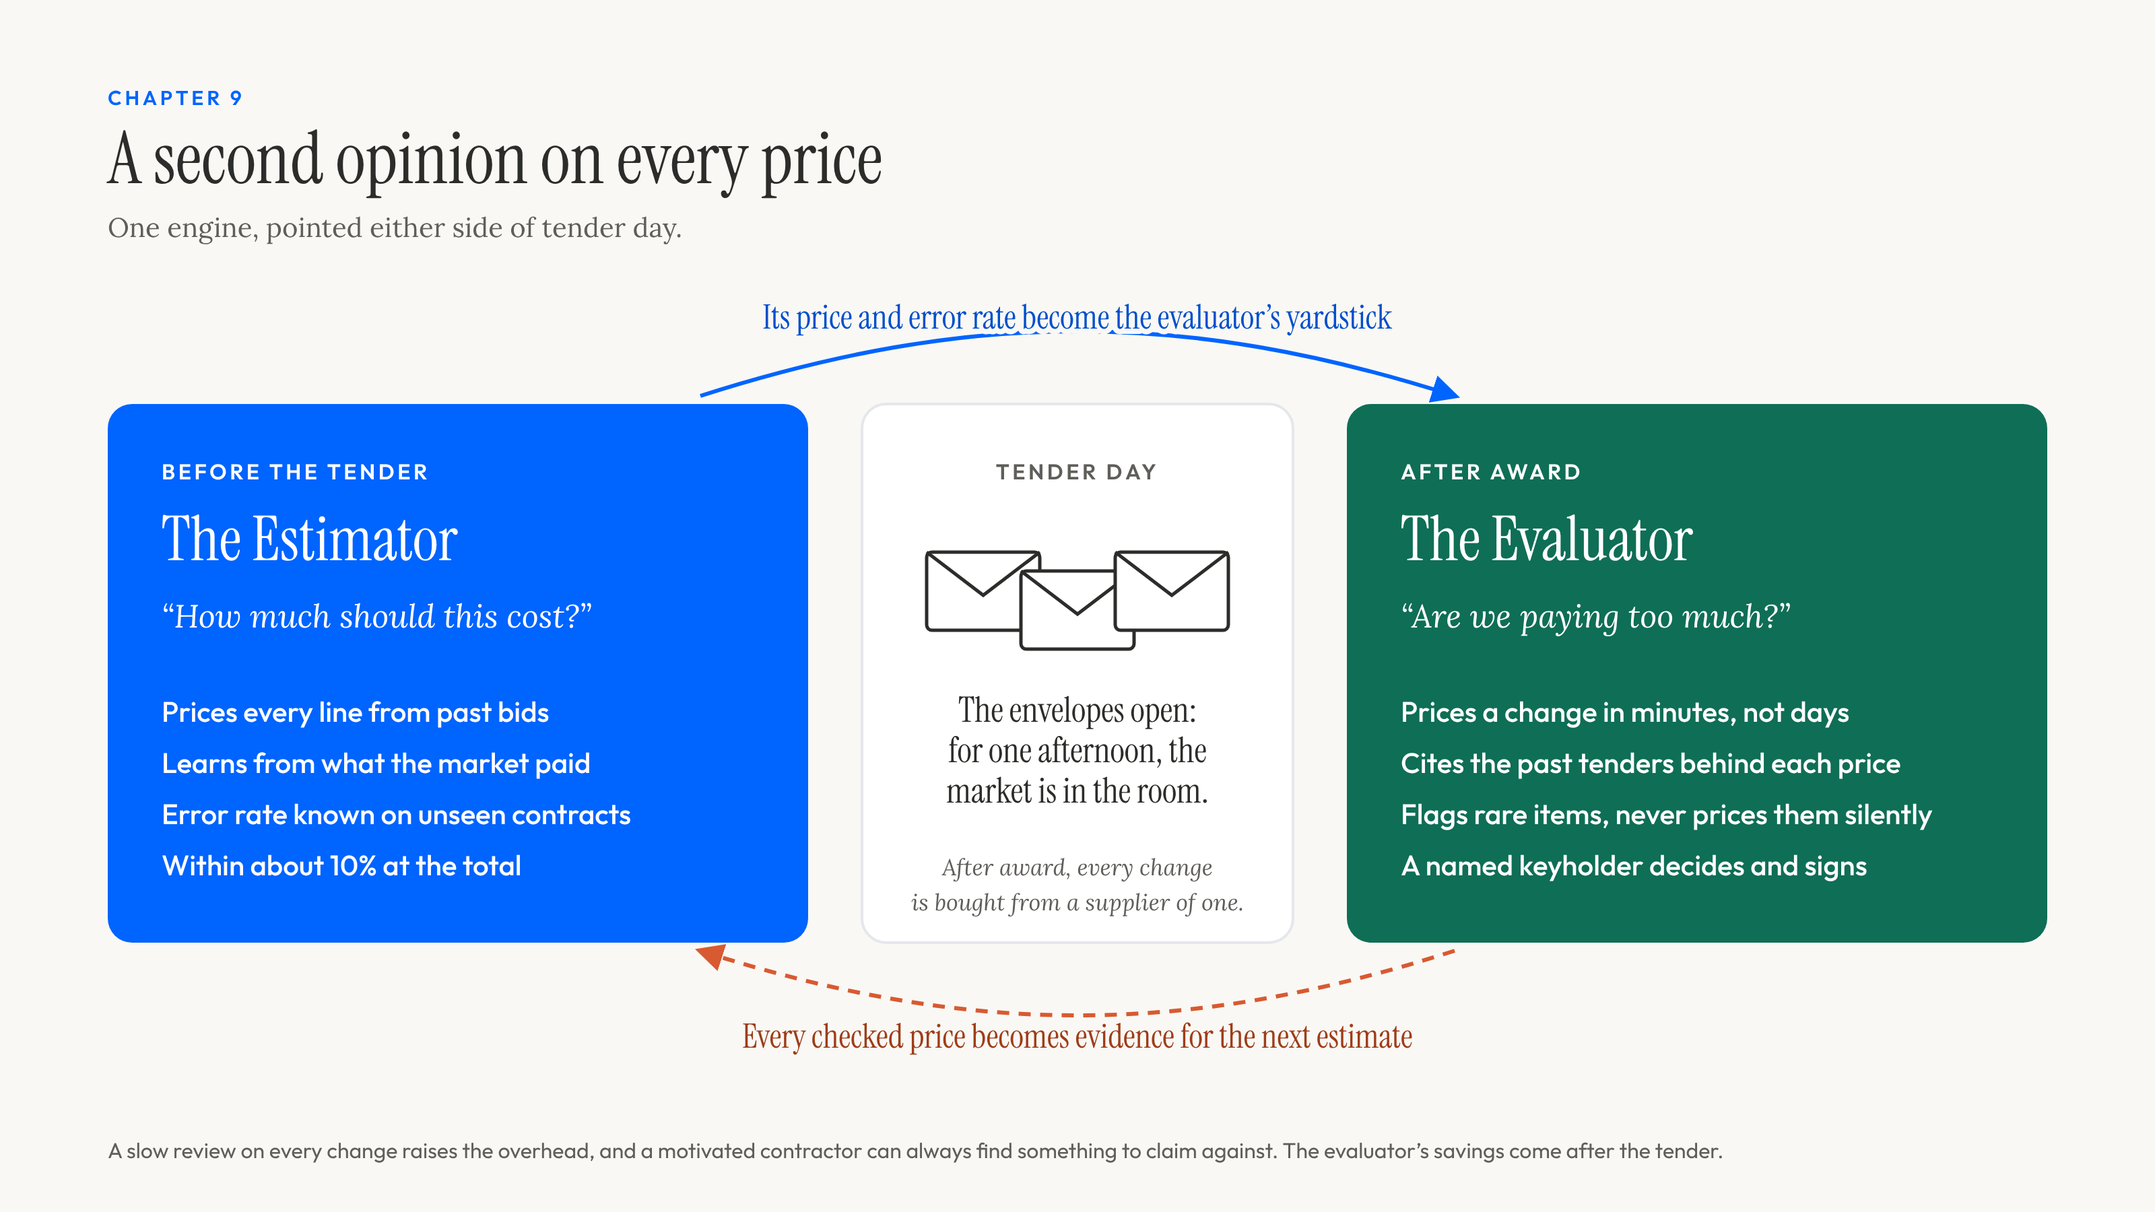
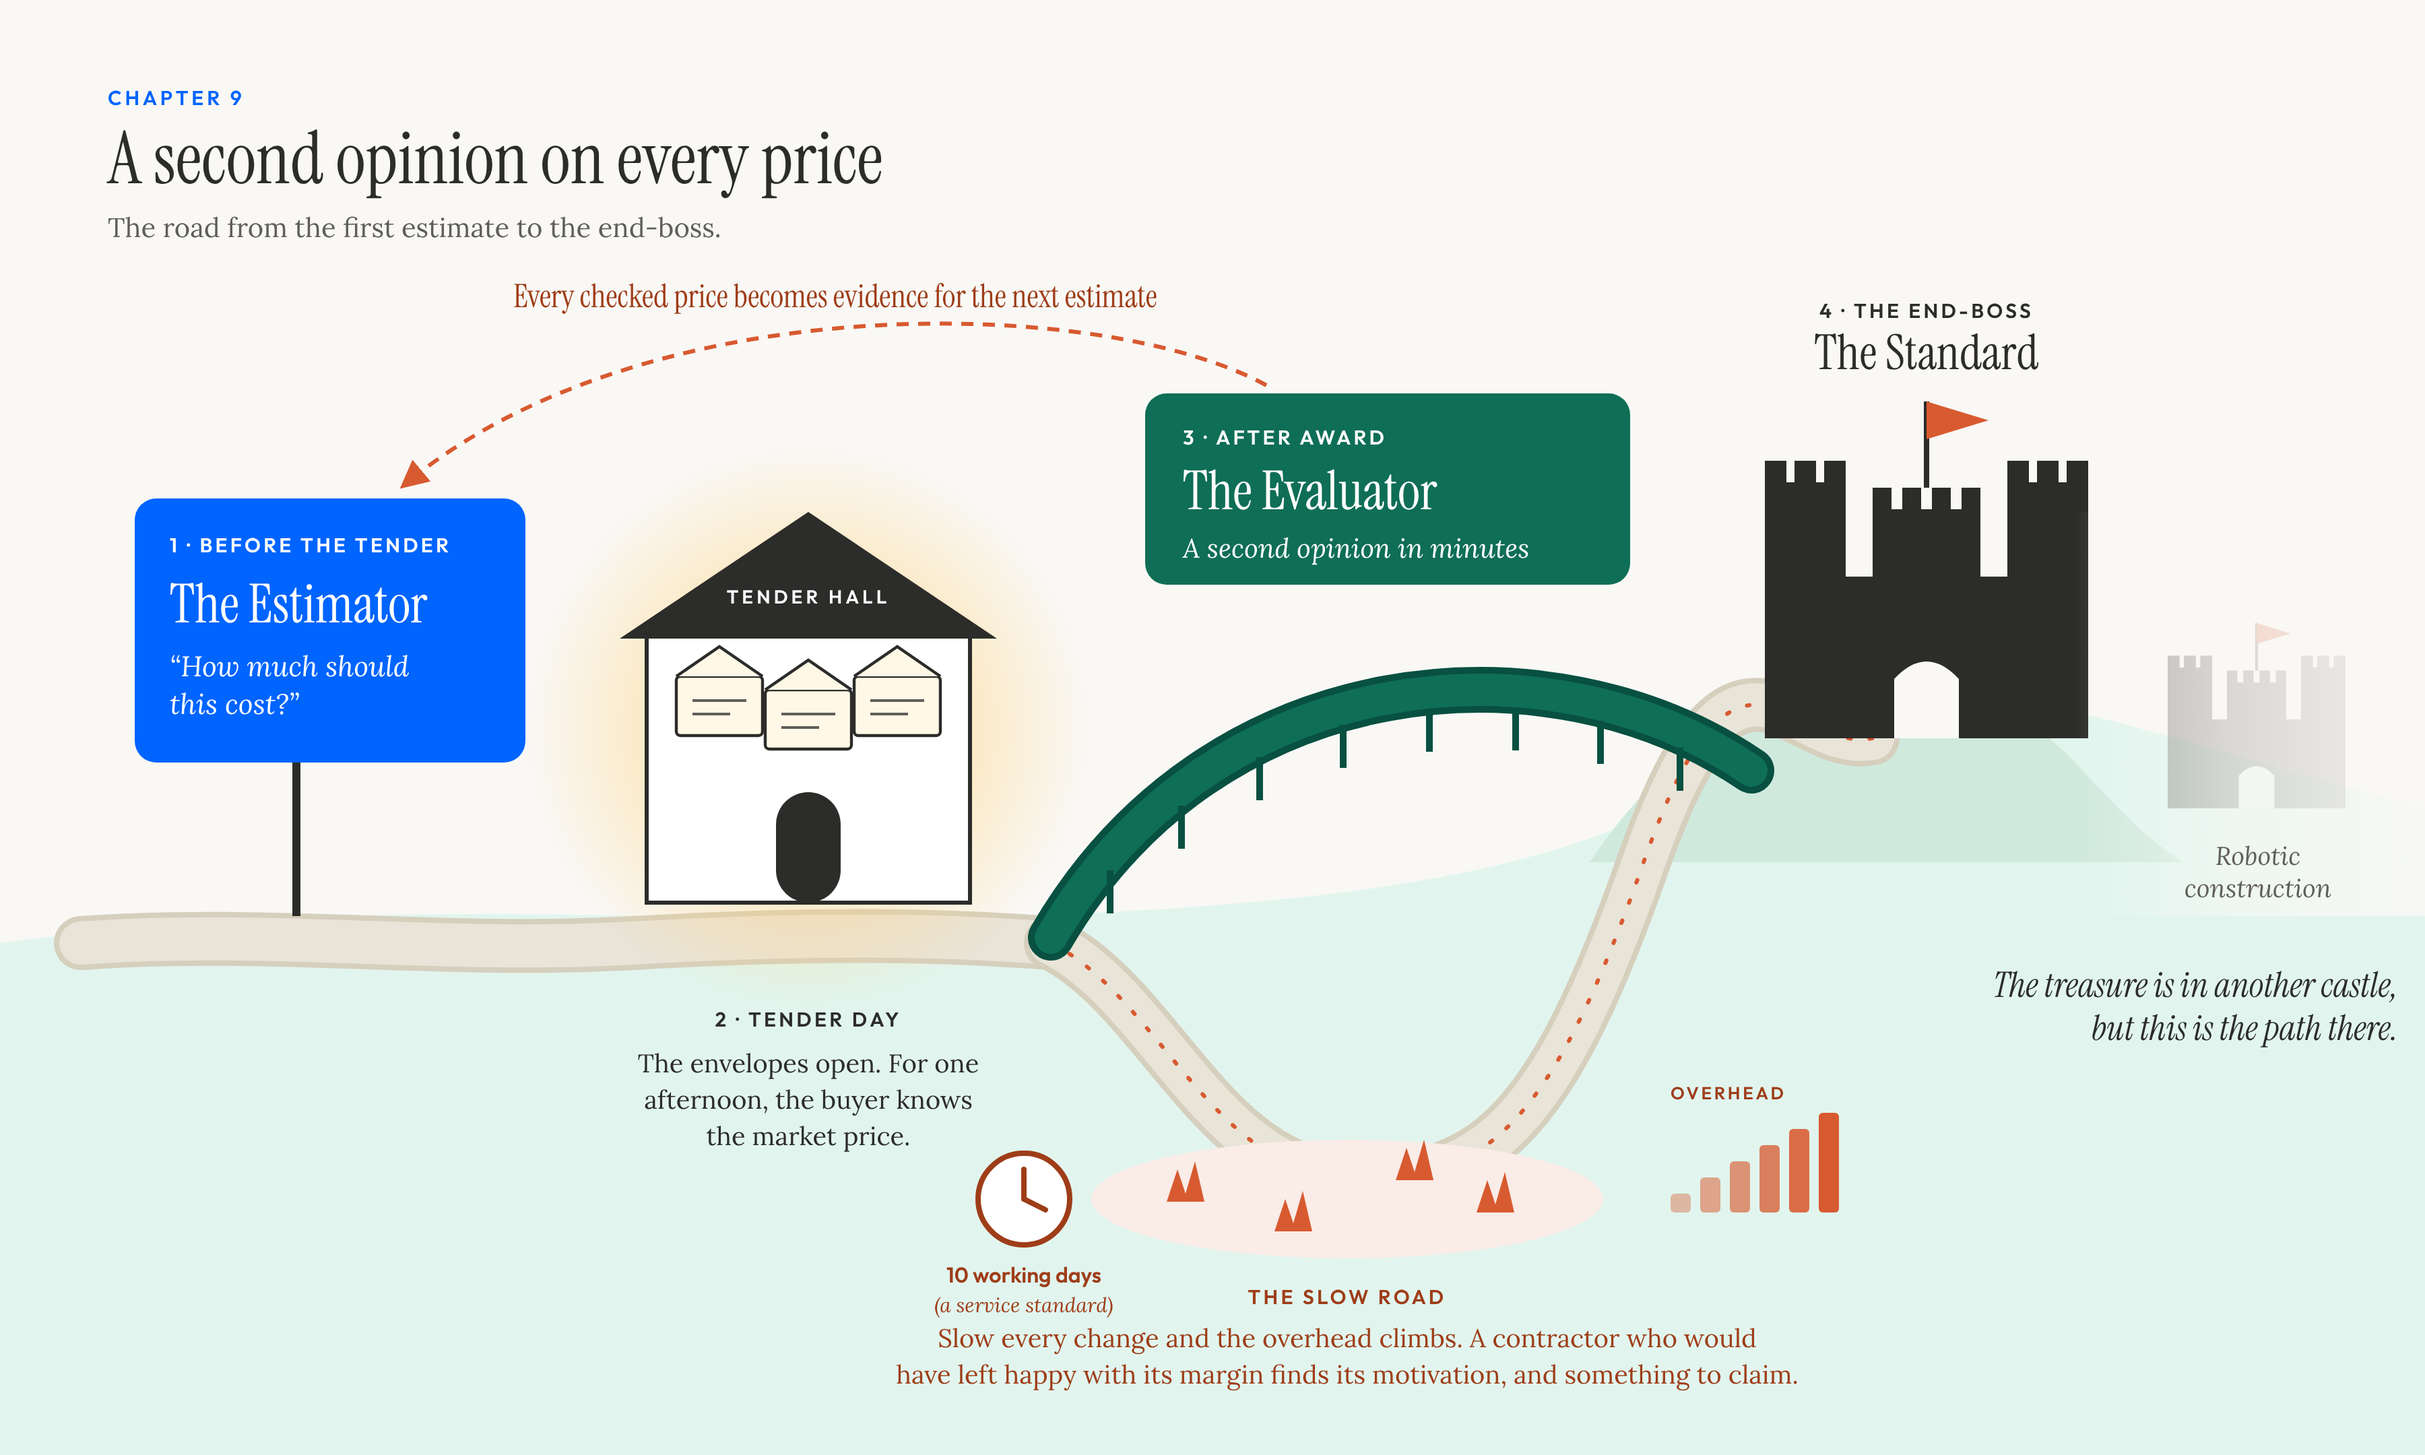
Chapter 9 figure: redraw as a quest map to the end-boss
Claude-Session: https://claude.ai/code/session_01JEzVpd1cnzXY9sfCGUSgGY

diff --git a/images/second_opinion.py b/images/second_opinion.py
@@ -1,85 +1,169 @@
-"""Chapter 9 figure: the estimator and the evaluator either side of tender day.
+"""Chapter 9 figure: the quest map from the estimator to the end-boss.
+
+The estimator before the tender, tender day (the one afternoon the buyer sees the
+market price), then a fork after award: the slow road of long reviews, where a
+contractor finds its motivation to claim, or the evaluator's bridge. The road
+ends at the end-boss, the standard, with robotic construction in the fog beyond.
 
     python images/second_opinion.py images/second-opinion
-    node images/project_hex_map_render.js "$PWD/images/second-opinion.html" images/second-opinion.png 1600 900
+    node images/project_hex_map_render.js "$PWD/images/second-opinion.html" images/second-opinion.png 1800 1080
 """
 import sys
 
-C = dict(action="#0064ff", action_p="#004fcc", sec="#0f6e56", sec_d="#085041",
-         acc="#d85a30", acc_d="#9e3d18", canvas="#f9f8f5", hair="#e5e7eb",
-         ink="#2c2c2a", ink2="#5f5e5a")
-W, H = 1600, 900
+C = dict(action="#0064ff", action_p="#004fcc", action_t="#e6efff",
+         sec="#0f6e56", sec_d="#085041", sec_t="#e1f5ee",
+         acc="#d85a30", acc_d="#9e3d18", acc_t="#faece7",
+         canvas="#f9f8f5", surface="#ffffff", muted="#f3f4f6", hair="#e5e7eb",
+         ink="#2c2c2a", ink2="#5f5e5a", road="#e9e4d8", road_e="#d6cfbd")
+W, H = 1800, 1080
 
 
-def t(x, y, s, cls, fill=None, anchor="start"):
+def t(x, y, s, cls, fill=None, anchor="start", extra=""):
     f = f' fill="{fill}"' if fill else ""
-    return f'<text x="{x}" y="{y}" class="{cls}"{f} text-anchor="{anchor}">{s}</text>'
+    return f'<text x="{x}" y="{y}" class="{cls}"{f} text-anchor="{anchor}"{extra}>{s}</text>'
 
 
-o = [f'<rect width="{W}" height="{H}" fill="{C["canvas"]}"/>']
+def lines(x, y, rows, cls, fill=None, anchor="start", step=26):
+    return [t(x, y + i * step, r, cls, fill, anchor) for i, r in enumerate(rows)]
+
+
+o = [f'<rect width="{W}" height="{H}" fill="{C["canvas"]}"/>',
+     '<defs><marker id="ah" viewBox="0 0 10 10" refX="8" refY="5" markerWidth="7" markerHeight="7" orient="auto">'
+     '<path d="M0 0L10 5L0 10z" fill="context-stroke"/></marker>'
+     '<radialGradient id="glow"><stop offset="0" stop-color="#ffd27a" stop-opacity=".9"/>'
+     '<stop offset="1" stop-color="#ffd27a" stop-opacity="0"/></radialGradient>'
+     '<linearGradient id="fog" x1="0" x2="1"><stop offset="0" stop-color="#f9f8f5" stop-opacity="0"/>'
+     '<stop offset=".45" stop-color="#f9f8f5" stop-opacity=".55"/><stop offset="1" stop-color="#f9f8f5" stop-opacity=".9"/></linearGradient></defs>']
+
 o.append(t(80, 78, "CHAPTER 9", "eyebrow"))
 o.append(t(80, 136, "A second opinion on every price", "title"))
-o.append(t(80, 176, "One engine, pointed either side of tender day.", "dek"))
+o.append(t(80, 176, "The road from the first estimate to the end-boss.", "dek"))
 
-# the three columns
-PY, PH = 300, 400
-LX, RX, PW = 80, 1000, 520
-MX, MW = 640, 320
+# hills and ground
+o.append(f'<path d="M0 700 C 300 660, 520 690, 760 680 S 1180 650, 1300 560 S 1500 520, 1800 600 L1800 {H} L0 {H} Z" fill="{C["sec_t"]}"/>')
+o.append(f'<path d="M1180 640 C 1260 520, 1380 470, 1480 520 C 1540 550, 1560 600, 1620 640 Z" fill="#cfe9dd"/>')
 
-def panel(x, col, eyebrow, name, q, lines):
-    o.append(f'<rect x="{x}" y="{PY}" width="{PW}" height="{PH}" rx="18" fill="{col}"/>')
-    o.append(t(x + 40, PY + 56, eyebrow, "tag", "#ffffff"))
-    o.append(t(x + 40, PY + 116, name, "name", "#ffffff"))
-    o.append(t(x + 40, PY + 166, q, "q", "#ffffff"))
-    yy = PY + 236
-    for ln in lines:
-        o.append(t(x + 40, yy, ln, "ex", "#ffffff")); yy += 38
+# the main road: estimator -> hall -> fork
+GY = 700
+o.append(f'<path d="M60 {GY} C 200 {GY-10}, 330 {GY+8}, 470 {GY} S 700 {GY-6}, 780 {GY}" fill="none" stroke="{C["road_e"]}" stroke-width="40" stroke-linecap="round"/>')
+o.append(f'<path d="M60 {GY} C 200 {GY-10}, 330 {GY+8}, 470 {GY} S 700 {GY-6}, 780 {GY}" fill="none" stroke="{C["road"]}" stroke-width="32" stroke-linecap="round"/>')
+# the slow road dips into the swamp
+slow = f"M780 {GY} C 860 {GY+40}, 900 {GY+170}, 1000 {GY+175} S 1150 {GY+140}, 1220 {GY-60} S 1330 560, 1390 548"
+o.append(f'<path d="{slow}" fill="none" stroke="{C["road_e"]}" stroke-width="40" stroke-linecap="round"/>')
+o.append(f'<path d="{slow}" fill="none" stroke="{C["road"]}" stroke-width="32" stroke-linecap="round"/>')
+o.append(f'<path d="{slow}" fill="none" stroke="{C["acc"]}" stroke-width="3" stroke-dasharray="2 14" stroke-linecap="round"/>')
+# swamp
+o.append(f'<ellipse cx="1000" cy="{GY+190}" rx="190" ry="44" fill="{C["acc_t"]}"/>')
+for x, y in ((880, GY + 192), (1110, GY + 200), (960, GY + 214), (1050, GY + 176)):   # thorns: claims
+    o.append(f'<path d="M{x-14} {y} L{x-6} {y-24} L{x} {y-6} L{x+7} {y-30} L{x+14} {y}" fill="{C["acc"]}"/>')
 
-panel(LX, C["action"], "BEFORE THE TENDER", "The Estimator", "“How much should this cost?”",
-      ["Prices every line from past bids", "Learns from what the market paid",
-       "Error rate known on unseen contracts", "Within about 10% at the total"])
-panel(RX, C["sec"], "AFTER AWARD", "The Evaluator", "“Are we paying too much?”",
-      ["Prices a change in minutes, not days", "Cites the past tenders behind each price",
-       "Flags rare items, never prices them silently", "A named keyholder decides and signs"])
+# the evaluator's bridge over the swamp
+o.append(f'<path d="M780 {GY-4} C 900 {GY-210}, 1150 {GY-230}, 1300 572" fill="none" stroke="{C["sec_d"]}" stroke-width="34" stroke-linecap="round"/>')
+o.append(f'<path d="M780 {GY-4} C 900 {GY-210}, 1150 {GY-230}, 1300 572" fill="none" stroke="{C["sec"]}" stroke-width="24" stroke-linecap="round"/>')
+for i in range(1, 9):   # bridge posts
+    s = i / 9
+    bx = (1 - s) ** 3 * 780 + 3 * (1 - s) ** 2 * s * 900 + 3 * (1 - s) * s * s * 1150 + s ** 3 * 1300
+    by = (1 - s) ** 3 * (GY - 4) + 3 * (1 - s) ** 2 * s * (GY - 210) + 3 * (1 - s) * s * s * (GY - 230) + s ** 3 * 572
+    o.append(f'<line x1="{bx:.0f}" y1="{by+12:.0f}" x2="{bx:.0f}" y2="{by+44:.0f}" stroke="{C["sec_d"]}" stroke-width="5"/>')
 
-# tender day in the middle
-cx = MX + MW / 2
-o.append(f'<rect x="{MX}" y="{PY}" width="{MW}" height="{PH}" rx="18" fill="#ffffff" stroke="{C["hair"]}" stroke-width="2"/>')
-o.append(t(cx, PY + 56, "TENDER DAY", "tag", C["ink2"], "middle"))
-for i, dx in enumerate((-70, 0, 70)):
-    ex, ey = cx + dx - 42, PY + 110 + (i % 2) * 14
-    o.append(f'<rect x="{ex}" y="{ey}" width="84" height="58" rx="4" fill="#ffffff" stroke="{C["ink"]}" stroke-width="2.5"/>')
-    o.append(f'<path d="M{ex} {ey} L{ex+42} {ey+32} L{ex+84} {ey}" fill="none" stroke="{C["ink"]}" stroke-width="2.5"/>')
-o.append(t(cx, PY + 236, "The envelopes open:", "mid", C["ink"], "middle"))
-o.append(t(cx, PY + 266, "for one afternoon, the", "mid", C["ink"], "middle"))
-o.append(t(cx, PY + 296, "market is in the room.", "mid", C["ink"], "middle"))
-o.append(t(cx, PY + 350, "After award, every change", "mids", C["ink2"], "middle"))
-o.append(t(cx, PY + 376, "is bought from a supplier of one.", "mids", C["ink2"], "middle"))
+# 1. the estimator: a signpost
+sx = 200
+o.append(f'<line x1="{sx+20}" y1="{GY-20}" x2="{sx+20}" y2="{GY-140}" stroke="{C["ink"]}" stroke-width="6"/>')
+o.append(f'<rect x="{sx-100}" y="{GY-330}" width="290" height="196" rx="16" fill="{C["action"]}"/>')
+o += lines(sx - 74, GY - 290, ["1 · BEFORE THE TENDER"], "tag", "#ffffff")
+o.append(t(sx - 74, GY - 238, "The Estimator", "name", "#ffffff"))
+o += lines(sx - 74, GY - 198, ["“How much should", "this cost?”"], "q", "#ffffff", step=28)
 
-o.append('<defs><marker id="ah" viewBox="0 0 10 10" refX="8" refY="5" markerWidth="7" markerHeight="7" orient="auto"><path d="M0 0L10 5L0 10z" fill="context-stroke"/></marker></defs>')
-# top arc: yardstick, estimator -> evaluator
-o.append(f'<path d="M{LX+PW-80} {PY-6} C {LX+PW+120} {PY-70}, {RX-120} {PY-70}, {RX+80} {PY-6}" fill="none" stroke="{C["action"]}" stroke-width="3" marker-end="url(#ah)"/>')
-o.append(t(W / 2, PY - 56, "Its price and error rate become the evaluator’s yardstick", "route", C["action_p"], "middle"))
-# bottom arc: evidence, evaluator -> estimator
-yb = PY + PH
-o.append(f'<path d="M{RX+80} {yb+6} C {RX-120} {yb+70}, {LX+PW+120} {yb+70}, {LX+PW-80} {yb+6}" fill="none" stroke="{C["acc"]}" stroke-width="3" stroke-dasharray="9 7" marker-end="url(#ah)"/>')
-o.append(t(W / 2, yb + 78, "Every checked price becomes evidence for the next estimate", "route", C["acc_d"], "middle"))
+# 2. tender day: the hall, lit for one afternoon
+hx, hy = 480, GY - 30
+o.append(f'<circle cx="{hx+120}" cy="{hy-130}" r="210" fill="url(#glow)"/>')
+o.append(f'<rect x="{hx}" y="{hy-200}" width="240" height="200" fill="{C["surface"]}" stroke="{C["ink"]}" stroke-width="3"/>')
+o.append(f'<path d="M{hx-20} {hy-196} L{hx+120} {hy-290} L{hx+260} {hy-196} Z" fill="{C["ink"]}"/>')
+o.append(t(hx + 120, hy - 222, "TENDER HALL", "sign", "#ffffff", "middle"))
+for i, dx in enumerate((22, 88, 154)):   # three opened envelopes
+    ex, ey = hx + dx, hy - 168 + (i % 2) * 10
+    o.append(f'<rect x="{ex}" y="{ey}" width="64" height="44" rx="3" fill="#fff8e6" stroke="{C["ink"]}" stroke-width="2.2"/>')
+    o.append(f'<path d="M{ex} {ey} L{ex+32} {ey-22} L{ex+64} {ey}" fill="#fff8e6" stroke="{C["ink"]}" stroke-width="2.2"/>')
+    o.append(f'<line x1="{ex+12}" y1="{ey+18}" x2="{ex+52}" y2="{ey+18}" stroke="{C["ink2"]}" stroke-width="2"/>')
+    o.append(f'<line x1="{ex+12}" y1="{ey+28}" x2="{ex+40}" y2="{ey+28}" stroke="{C["ink2"]}" stroke-width="2"/>')
+o.append(f'<rect x="{hx+96}" y="{hy-82}" width="48" height="82" rx="24" fill="{C["ink"]}"/>')
+o += lines(hx + 120, GY + 62, ["2 · TENDER DAY"], "tag", C["ink"], "middle")
+o += lines(hx + 120, GY + 96, ["The envelopes open. For one", "afternoon, the buyer knows", "the market price."], "cap", C["ink"], "middle", step=27)
 
-o.append(t(80, H - 40, "A slow review on every change raises the overhead, and a motivated contractor can always find something to claim against. The evaluator’s savings come after the tender.", "foot"))
+# 3a. the evaluator's bridge label
+o.append(f'<rect x="850" y="292" width="360" height="142" rx="16" fill="{C["sec"]}"/>')
+o += lines(878, 330, ["3 · AFTER AWARD"], "tag", "#ffffff")
+o.append(t(878, 378, "The Evaluator", "name", "#ffffff"))
+o.append(t(878, 414, "A second opinion in minutes", "q2", "#ffffff"))
+
+# 3b. the slow road: clock, overhead meter, motivation
+cx, cy = 760, GY + 190     # clock
+o.append(f'<circle cx="{cx}" cy="{cy}" r="34" fill="{C["surface"]}" stroke="{C["acc_d"]}" stroke-width="4"/>')
+o.append(f'<line x1="{cx}" y1="{cy}" x2="{cx}" y2="{cy-22}" stroke="{C["acc_d"]}" stroke-width="4" stroke-linecap="round"/>')
+o.append(f'<line x1="{cx}" y1="{cy}" x2="{cx+16}" y2="{cy+8}" stroke="{C["acc_d"]}" stroke-width="4" stroke-linecap="round"/>')
+o.append(t(cx, cy + 62, "10 working days", "small", C["acc_d"], "middle"))
+o.append(t(cx, cy + 84, "(a service standard)", "smalli", C["acc_d"], "middle"))
+mx, my = 1240, GY + 120    # the overhead meter, climbing
+o.append(t(mx, my - 4, "OVERHEAD", "tag2", C["acc_d"]))
+for i in range(6):
+    h = 14 + i * 12
+    o.append(f'<rect x="{mx + i*22}" y="{my + 80 - h}" width="15" height="{h}" rx="3" fill="{C["acc"]}" opacity="{0.4 + i*0.12:.2f}"/>')
+o += lines(1000, GY + 268, ["THE SLOW ROAD"], "tag", C["acc_d"], "middle")
+o += lines(1000, GY + 300, ["Slow every change and the overhead climbs. A contractor who would",
+                            "have left happy with its margin finds its motivation, and something to claim."],
+           "cap", C["acc_d"], "middle", step=27)
+
+# 4. the end-boss: the standard's castle on the hill
+kx, ky = 1330, 548
+def castle(x, y, s, fill, op=1):
+    p = []
+    p.append(f'<g opacity="{op}">')
+    p.append(f'<rect x="{x}" y="{y - 120*s}" width="{200*s}" height="{120*s}" fill="{fill}"/>')
+    for tx in (x - 20*s, x + 160*s):
+        p.append(f'<rect x="{tx}" y="{y - 190*s}" width="{60*s}" height="{190*s}" fill="{fill}"/>')
+        for k in range(3):
+            p.append(f'<rect x="{tx + k*22*s}" y="{y - 206*s}" width="{16*s}" height="{18*s}" fill="{fill}"/>')
+    p.append(f'<rect x="{x + 60*s}" y="{y - 170*s}" width="{80*s}" height="{60*s}" fill="{fill}"/>')
+    for k in range(4):
+        p.append(f'<rect x="{x + 60*s + k*22*s}" y="{y - 186*s}" width="{14*s}" height="{18*s}" fill="{fill}"/>')
+    p.append(f'<path d="M{x + 76*s} {y} L{x + 76*s} {y - 44*s} Q{x + 100*s} {y - 70*s} {x + 124*s} {y - 44*s} L{x + 124*s} {y} Z" fill="{C["canvas"]}"/>')
+    p.append(f'<line x1="{x + 100*s}" y1="{y - 186*s}" x2="{x + 100*s}" y2="{y - 250*s}" stroke="{fill}" stroke-width="{4*s}"/>')
+    p.append(f'<path d="M{x + 100*s} {y - 250*s} L{x + 146*s} {y - 236*s} L{x + 100*s} {y - 222*s} Z" fill="{C["acc"]}"/>')
+    p.append('</g>')
+    return p
+o += castle(kx, ky, 1.0, C["ink"])
+o += lines(kx + 100, 236, ["4 · THE END-BOSS"], "tag", C["ink"], "middle")
+o.append(t(kx + 100, 274, "The Standard", "name2", C["ink"], "middle"))
+
+# beyond: robotic construction in the fog
+o += castle(1620, 600, 0.55, C["ink2"], 0.45)
+o.append(f'<rect x="1540" y="380" width="260" height="300" fill="url(#fog)"/>')
+o += lines(1676, 642, ["Robotic", "construction"], "smalli2", C["ink2"], "middle", step=24)
+
+# the flywheel: checked prices feed the next estimate
+o.append(f'<path d="M940 286 C 820 220, 480 210, 300 360" fill="none" stroke="{C["acc"]}" stroke-width="3" stroke-dasharray="9 7" marker-end="url(#ah)"/>')
+o.append(t(620, 228, "Every checked price becomes evidence for the next estimate", "route", C["acc_d"], "middle"))
+
+o += lines(1780, 740, ["The treasure is in another castle,", "but this is the path there."], "foot", None, "end", step=32)
 
 svg = f'''<svg xmlns="http://www.w3.org/2000/svg" width="{W}" height="{H}" viewBox="0 0 {W} {H}">
 <style>
   .eyebrow{{font-family:Outfit,sans-serif;font-weight:600;font-size:15px;letter-spacing:.16em;fill:#0064ff}}
   .title{{font-family:'Instrument Serif',Georgia,serif;font-size:54px;fill:#2c2c2a}}
   .dek{{font-family:Lora,Georgia,serif;font-size:20px;fill:#5f5e5a}}
-  .tag{{font-family:Outfit,sans-serif;font-weight:600;font-size:16px;letter-spacing:.14em}}
-  .name{{font-family:'Instrument Serif',Georgia,serif;font-size:46px}}
-  .q{{font-family:Lora,Georgia,serif;font-style:italic;font-weight:500;font-size:24px}}
-  .ex{{font-family:Outfit,sans-serif;font-weight:500;font-size:21px}}
-  .mid{{font-family:'Instrument Serif',Georgia,serif;font-size:26px}}
-  .mids{{font-family:Lora,Georgia,serif;font-style:italic;font-size:17px}}
-  .route{{font-family:'Instrument Serif',Georgia,serif;font-size:25px;paint-order:stroke;stroke:#f9f8f5;stroke-width:8px;stroke-linejoin:round}}
-  .foot{{font-family:Outfit,sans-serif;font-size:16px;fill:#5f5e5a}}
+  .tag{{font-family:Outfit,sans-serif;font-weight:600;font-size:15px;letter-spacing:.14em}}
+  .tag2{{font-family:Outfit,sans-serif;font-weight:600;font-size:13px;letter-spacing:.14em}}
+  .sign{{font-family:Outfit,sans-serif;font-weight:600;font-size:14px;letter-spacing:.18em}}
+  .name{{font-family:'Instrument Serif',Georgia,serif;font-size:40px}}
+  .name2{{font-family:'Instrument Serif',Georgia,serif;font-size:36px}}
+  .q{{font-family:Lora,Georgia,serif;font-style:italic;font-weight:500;font-size:21px}}
+  .q2{{font-family:Lora,Georgia,serif;font-style:italic;font-weight:500;font-size:20px}}
+  .cap{{font-family:Lora,Georgia,serif;font-size:19px}}
+  .small{{font-family:Outfit,sans-serif;font-weight:600;font-size:16px}}
+  .smalli{{font-family:Lora,Georgia,serif;font-style:italic;font-size:15px}}
+  .smalli2{{font-family:Lora,Georgia,serif;font-style:italic;font-size:19px}}
+  .route{{font-family:'Instrument Serif',Georgia,serif;font-size:24px;paint-order:stroke;stroke:#f9f8f5;stroke-width:8px;stroke-linejoin:round}}
+  .foot{{font-family:'Instrument Serif',Georgia,serif;font-style:italic;font-size:26px;fill:#2c2c2a}}
 </style>
 {chr(10).join(o)}
 </svg>'''
